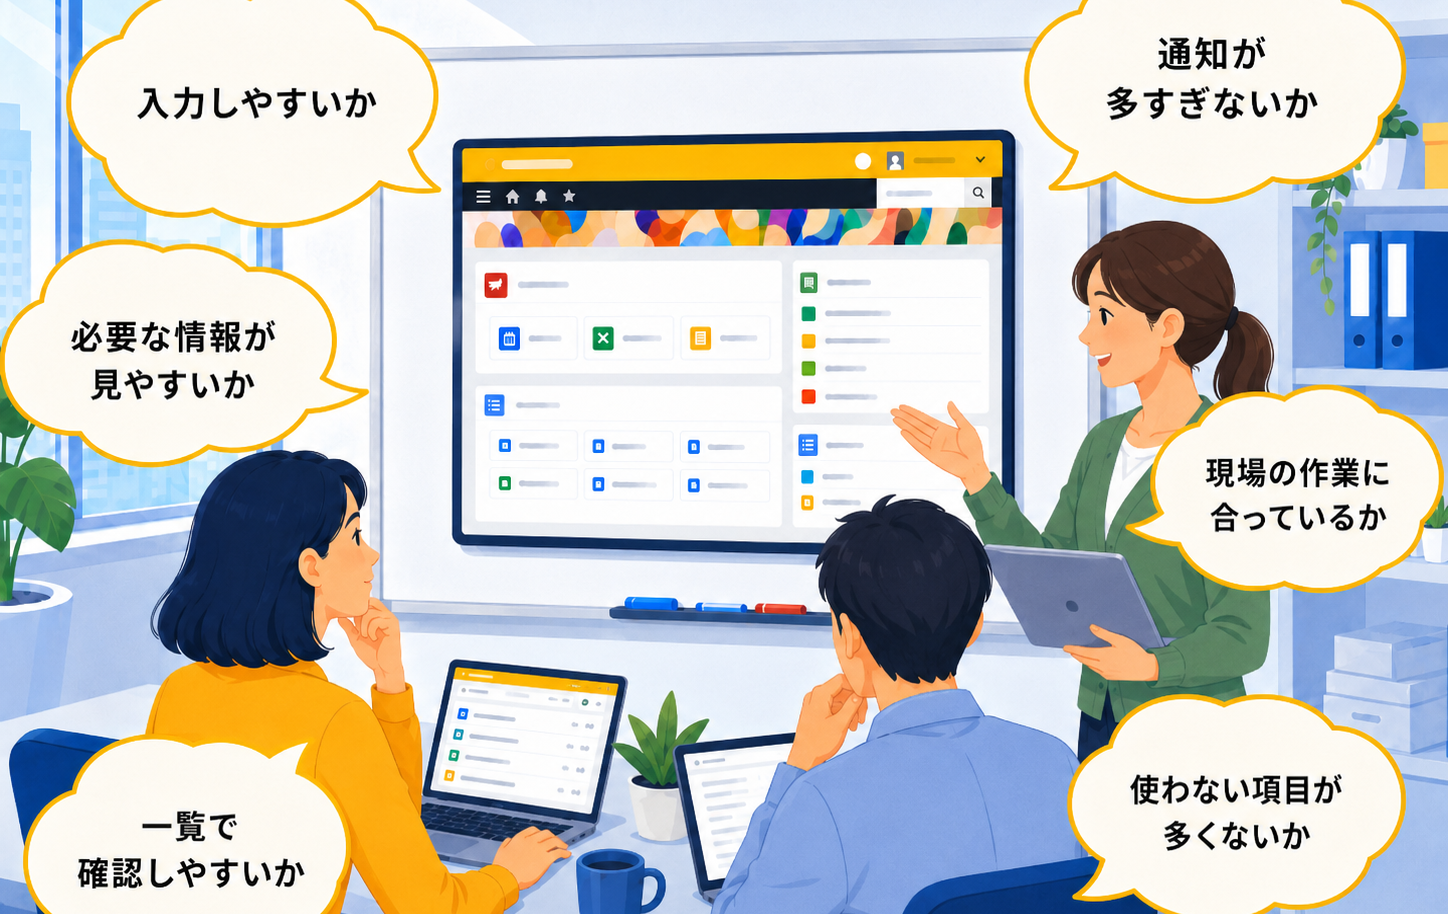
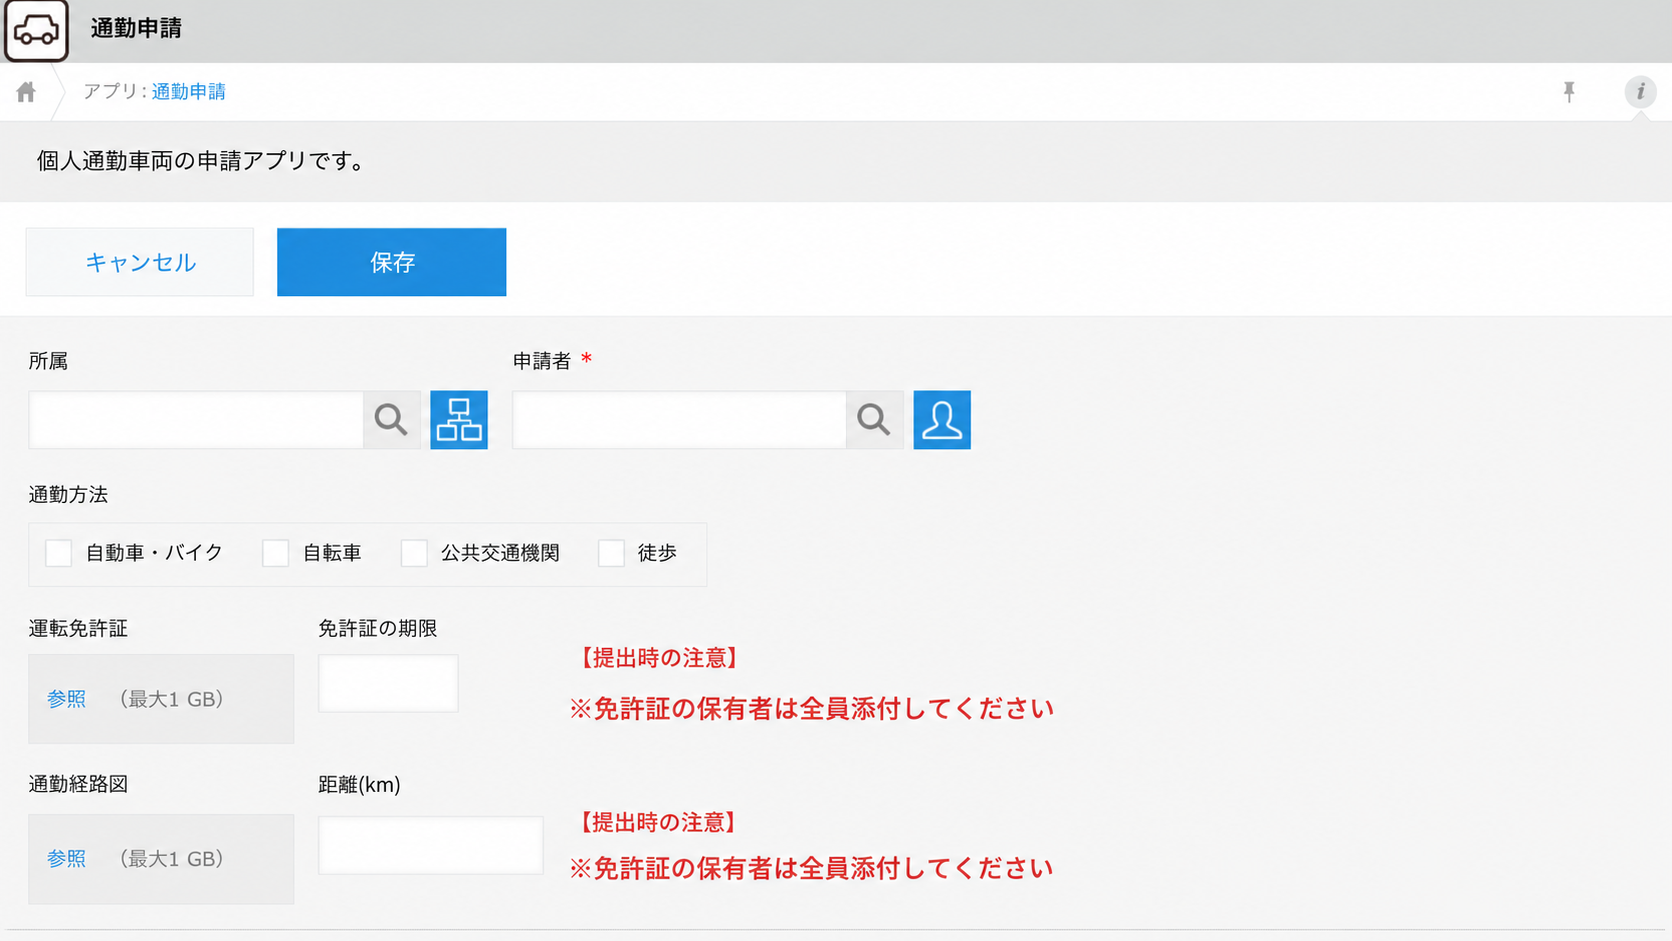
業務改善：確認ポイント画像を業務改善10に差し替え、6つの確認事項を画像右側に吹き出し風に並べる

diff --git a/column/kintone-business-improvement/index.html b/column/kintone-business-improvement/index.html
@@ -982,9 +982,19 @@
                     運用開始後は、次のような点を確認します。
                 </p>
 
-                <figure style="max-width: 800px; margin: 28px auto 32px; text-align: center;">
-                    <img src="../../images/column/business-improvement-check.png" alt="運用開始後の確認ポイント" style="width: 100%; height: auto; border-radius: 8px; display: block;">
-                </figure>
+                <div style="display: flex; gap: 20px; align-items: center; max-width: 900px; margin: 28px auto 32px; flex-wrap: wrap;">
+                    <div style="flex: 1 1 400px; min-width: 280px;">
+                        <img src="../../images/column/business-improvement-check.png" alt="運用開始後の確認ポイント" style="width: 100%; height: auto; border-radius: 8px; display: block;">
+                    </div>
+                    <div style="flex: 1 1 280px; min-width: 240px; display: flex; flex-direction: column; gap: 10px;">
+                        <div style="background: var(--white); border: 2px solid var(--kintone-yellow); border-radius: 20px; padding: 10px 16px; font-size: 14px; font-weight: 700; color: var(--navy); box-shadow: 0 2px 8px rgba(0,0,0,0.06);">入力しやすいか</div>
+                        <div style="background: var(--white); border: 2px solid var(--kintone-yellow); border-radius: 20px; padding: 10px 16px; font-size: 14px; font-weight: 700; color: var(--navy); box-shadow: 0 2px 8px rgba(0,0,0,0.06);">必要な情報が見やすいか</div>
+                        <div style="background: var(--white); border: 2px solid var(--kintone-yellow); border-radius: 20px; padding: 10px 16px; font-size: 14px; font-weight: 700; color: var(--navy); box-shadow: 0 2px 8px rgba(0,0,0,0.06);">一覧で確認しやすいか</div>
+                        <div style="background: var(--white); border: 2px solid var(--kintone-yellow); border-radius: 20px; padding: 10px 16px; font-size: 14px; font-weight: 700; color: var(--navy); box-shadow: 0 2px 8px rgba(0,0,0,0.06);">通知が多すぎないか</div>
+                        <div style="background: var(--white); border: 2px solid var(--kintone-yellow); border-radius: 20px; padding: 10px 16px; font-size: 14px; font-weight: 700; color: var(--navy); box-shadow: 0 2px 8px rgba(0,0,0,0.06);">現場の作業に合っているか</div>
+                        <div style="background: var(--white); border: 2px solid var(--kintone-yellow); border-radius: 20px; padding: 10px 16px; font-size: 14px; font-weight: 700; color: var(--navy); box-shadow: 0 2px 8px rgba(0,0,0,0.06);">使わない項目が多くないか</div>
+                    </div>
+                </div>
                 <p>
                     kintoneは、業務に合わせてアプリを見直しやすい点が特徴です。<strong style="border-bottom: 3px solid #D32F2F; padding-bottom: 2px;">最初から完璧な形を作ろうとせず、使いながら改善していくことが大切</strong>です。
                 </p>
